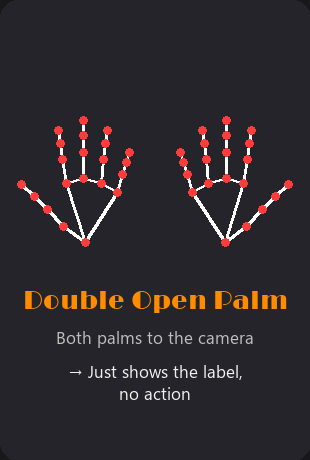
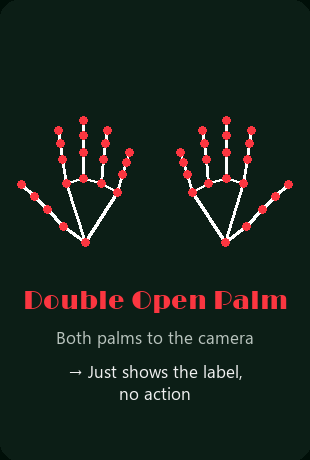
Recolor to Night (#000F08) and Imperial (#FB3640)

Changed region(s): [[0.0581, 0.6087, 0.929, 0.7]]

diff --git a/src/help_screen.py b/src/help_screen.py
@@ -9,12 +9,14 @@ HERE = os.path.dirname(__file__)
 TITLE_FONT = os.path.join(HERE, "Limelight-Regular.ttf")
 TEXT_FONT = r"C:\Windows\Fonts\segoeui.ttf"
 
-BG = (24, 24, 28)
-TILE_BG = (36, 36, 42)
+NIGHT = (0, 15, 8)  # #000F08
+IMPERIAL = (251, 54, 64)  # #FB3640
+BG = NIGHT
+TILE_BG = (12, 30, 22)
 LINE = (255, 255, 255)
-DOT = (255, 60, 60)
-ORANGE = (255, 140, 0)
-GREY = (190, 190, 190)
+DOT = IMPERIAL
+ACCENT = IMPERIAL
+GREY = (185, 196, 190)
 WHITE = (240, 240, 240)
 
 TILE_W, TILE_H = 330, 480
@@ -88,30 +90,30 @@ def draw_skeleton(draw, pts, cx, cy, scale=1.0, mirror=False):
 
 
 def draw_arrow(draw, x_from, x_to, y):
-    draw.line([(x_from, y), (x_to, y)], fill=ORANGE, width=6)
+    draw.line([(x_from, y), (x_to, y)], fill=ACCENT, width=6)
     d = 1 if x_to > x_from else -1
-    draw.polygon([(x_to, y), (x_to - 18 * d, y - 12), (x_to - 18 * d, y + 12)], fill=ORANGE)
+    draw.polygon([(x_to, y), (x_to - 18 * d, y - 12), (x_to - 18 * d, y + 12)], fill=ACCENT)
 
 
 def draw_growth_arrows(draw, cx, cy, outward):
-    """Four orange arrows around a hand: outward = toward the camera, inward = away."""
+    """Four accent-colored arrows around a hand: outward = toward the camera, inward = away."""
     for sx, sy in ((-1, -1), (1, -1), (-1, 1), (1, 1)):
         far = (cx + sx * 120, cy + sy * 95)
         near = (cx + sx * 80, cy + sy * 62)
         a, b = (near, far) if outward else (far, near)
-        draw.line([a, b], fill=ORANGE, width=5)
+        draw.line([a, b], fill=ACCENT, width=5)
         dx, dy = b[0] - a[0], b[1] - a[1]
         n = (dx * dx + dy * dy) ** 0.5
         ux, uy = dx / n, dy / n
         px, py = -uy, ux
         draw.polygon([b, (b[0] - 16 * ux + 9 * px, b[1] - 16 * uy + 9 * py),
-                      (b[0] - 16 * ux - 9 * px, b[1] - 16 * uy - 9 * py)], fill=ORANGE)
+                      (b[0] - 16 * ux - 9 * px, b[1] - 16 * uy - 9 * py)], fill=ACCENT)
 
 
 def draw_arrow_v(draw, y_from, y_to, x):
-    draw.line([(x, y_from), (x, y_to)], fill=ORANGE, width=6)
+    draw.line([(x, y_from), (x, y_to)], fill=ACCENT, width=6)
     d = 1 if y_to > y_from else -1
-    draw.polygon([(x, y_to), (x - 12, y_to - 18 * d), (x + 12, y_to - 18 * d)], fill=ORANGE)
+    draw.polygon([(x, y_to), (x - 12, y_to - 18 * d), (x + 12, y_to - 18 * d)], fill=ACCENT)
 
 
 def load(path, size):
@@ -134,7 +136,7 @@ def tile(draw, col, row, title, how, does, art, fonts):
     draw.rounded_rectangle([x0 + 10, y0 + 10, x0 + TILE_W - 10, y0 + TILE_H - 10],
                            radius=18, fill=TILE_BG)
     art(draw, x0 + TILE_W // 2, y0 + 5)
-    centered(draw, title, fonts["name"], cx, y0 + 295, ORANGE)
+    centered(draw, title, fonts["name"], cx, y0 + 295, ACCENT)
     y = y0 + 335
     for line in how.split("\n"):
         centered(draw, line, fonts["sub"], cx, y, GREY)
@@ -151,7 +153,7 @@ def build_help_image():
     rows = 5
     img = Image.new("RGB", (TILE_W * COLS, TITLE_H + TILE_H * rows + FOOTER_H), BG)
     draw = ImageDraw.Draw(img)
-    centered(draw, "Gesture Help", fonts["title"], img.width / 2, 20, ORANGE)
+    centered(draw, "Gesture Help", fonts["title"], img.width / 2, 20, ACCENT)
 
     def single(pts):
         return lambda d, x, y: draw_skeleton(d, pts, x, y + 170)

diff --git a/tools/make_readme_images.py b/tools/make_readme_images.py
@@ -34,8 +34,8 @@ def badge(img, x, y, text, font, icon, circle=False):
     box = draw.textbbox((0, 0), text, font=font)
     h, pad, icon_size = 62, 8, 46
     w = pad + icon_size + 14 + (box[2] - box[0]) + 28
-    draw.rounded_rectangle([x, y, x + w, y + h], radius=h // 2, fill=(36, 36, 42),
-                           outline=hs.ORANGE, width=3)
+    draw.rounded_rectangle([x, y, x + w, y + h], radius=h // 2, fill=hs.TILE_BG,
+                           outline=hs.ACCENT, width=3)
     icon = icon.convert("RGBA").resize((icon_size, icon_size), Image.LANCZOS)
     if circle:
         mask = Image.new("L", (icon_size * 4, icon_size * 4), 0)
@@ -50,17 +50,17 @@ def save_banner():
     w, h = 1280, 320
     img = Image.new("RGB", (w, h), hs.BG)
     draw = ImageDraw.Draw(img)
-    for x in range(w):  # soft orange glow from the right
+    for x in range(w):  # soft accent glow from the right
         t = max(0.0, (x - w * 0.45) / (w * 0.55)) ** 2
-        c = tuple(int(a + (b - a) * t * 0.35) for a, b in zip(hs.BG, hs.ORANGE))
+        c = tuple(int(a + (b - a) * t * 0.3) for a, b in zip(hs.BG, hs.ACCENT))
         draw.line([(x, 0), (x, h)], fill=c)
-    draw.rounded_rectangle([1, 1, w - 2, h - 2], radius=24, outline=(70, 70, 78), width=2)
+    draw.rounded_rectangle([1, 1, w - 2, h - 2], radius=24, outline=(40, 64, 52), width=2)
 
     hs.draw_skeleton(draw, hs.OPEN_HAND, 1070, 175, 1.25)
     hs.draw_skeleton(draw, hs.SEARCH_HAND, 830, 200, 0.8)
 
     title = hs.load(hs.TITLE_FONT, 92)
-    draw.text((70, 55), "Gesture-App", font=title, fill=hs.ORANGE)
+    draw.text((70, 55), "Gesture-App", font=title, fill=hs.ACCENT)
     small = hs.load(hs.TEXT_FONT, 32)
     x = 74
     avatar = Image.open(os.path.join(DOCS, "izu83.png"))

diff --git a/src/camera.py b/src/camera.py
@@ -26,7 +26,7 @@ FINGERS = [(8, 6), (12, 10), (16, 14), (20, 18)]  # (tip, pip) for index..pinky
 THUMB_TIP, THUMB_IP, PINKY_MCP = 4, 3, 17
 INDEX_MCP = 5
 
-TEXT_COLOR = (255, 140, 0)  # orange (RGB)
+TEXT_COLOR = (251, 54, 64)  # Imperial #FB3640 (RGB)
 FONT_CANDIDATES = [
     os.path.join(os.path.dirname(__file__), "Limelight-Regular.ttf"),
     r"C:\Windows\Fonts\Inkfree.ttf",
@@ -333,7 +333,7 @@ def draw_text_bottom(frame, text, font):
     x = (w - (box[2] - box[0])) // 2 - box[0]
     y = h - (box[3] - box[1]) - 30 - box[1]
     draw.text((x, y), text, font=font, fill=TEXT_COLOR,
-              stroke_width=2, stroke_fill=(0, 0, 0))
+              stroke_width=2, stroke_fill=(0, 15, 8))
     return cv2.cvtColor(np.array(img), cv2.COLOR_RGB2BGR)
 
 
@@ -386,7 +386,7 @@ def draw_hand(frame, lm):
     for c in vision.HandLandmarksConnections.HAND_CONNECTIONS:
         cv2.line(frame, pts[c.start], pts[c.end], (255, 255, 255), 2)
     for p in pts:
-        cv2.circle(frame, p, 4, (0, 0, 255), -1)
+        cv2.circle(frame, p, 4, (64, 54, 251), -1)  # Imperial (BGR)
 
 
 def main():
